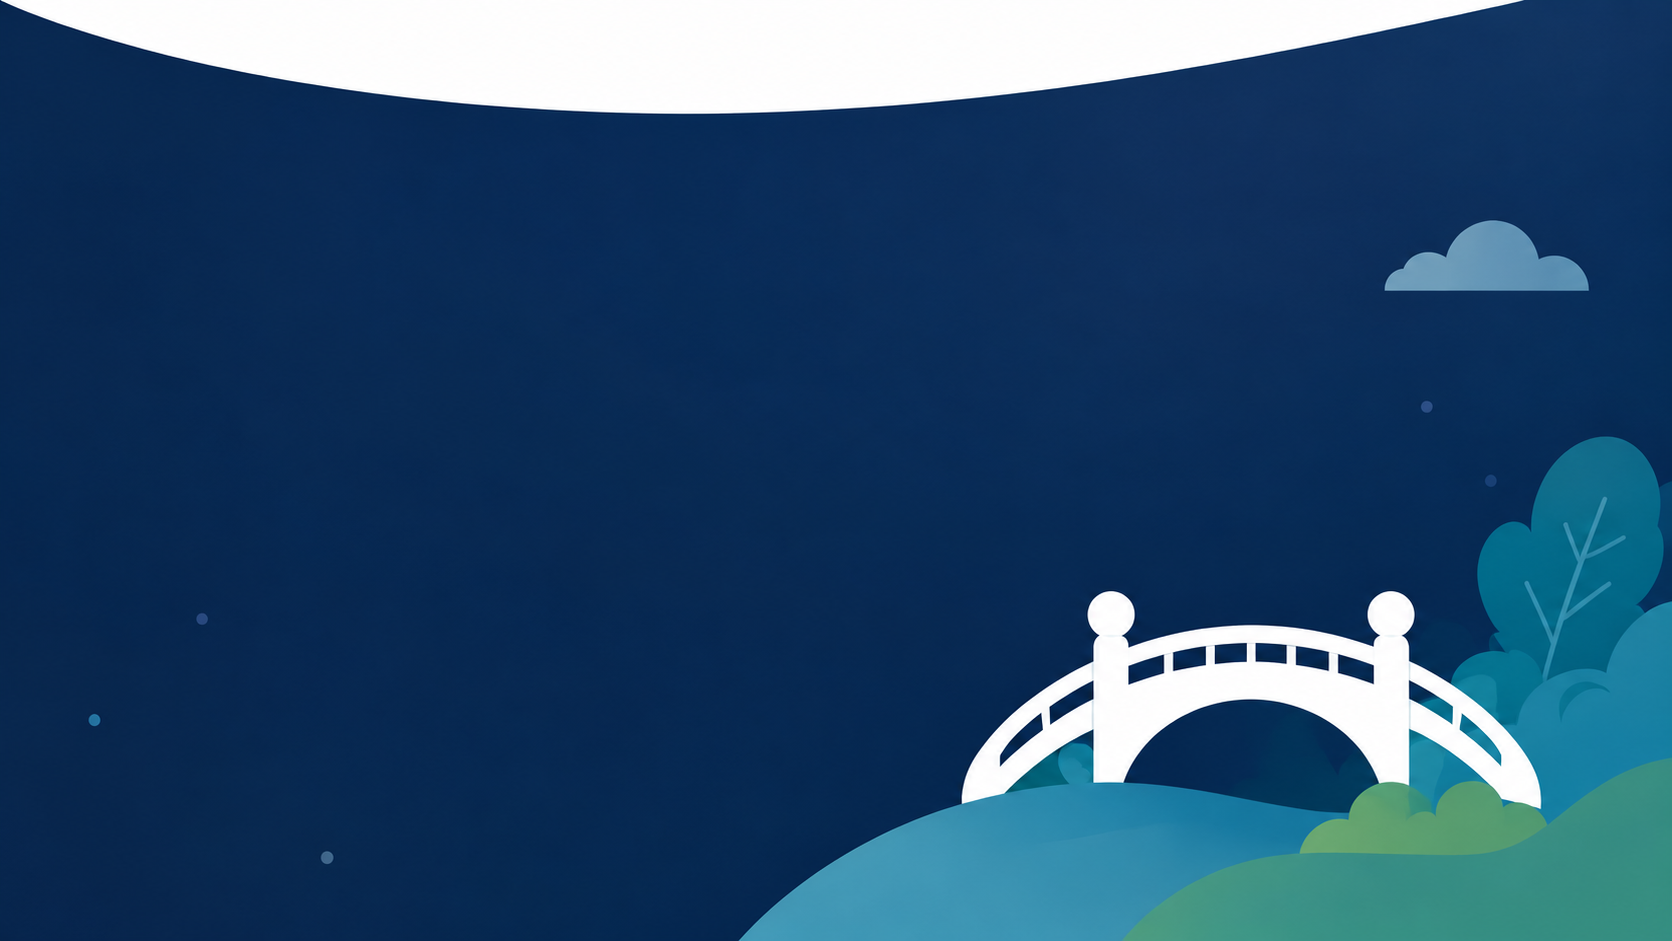
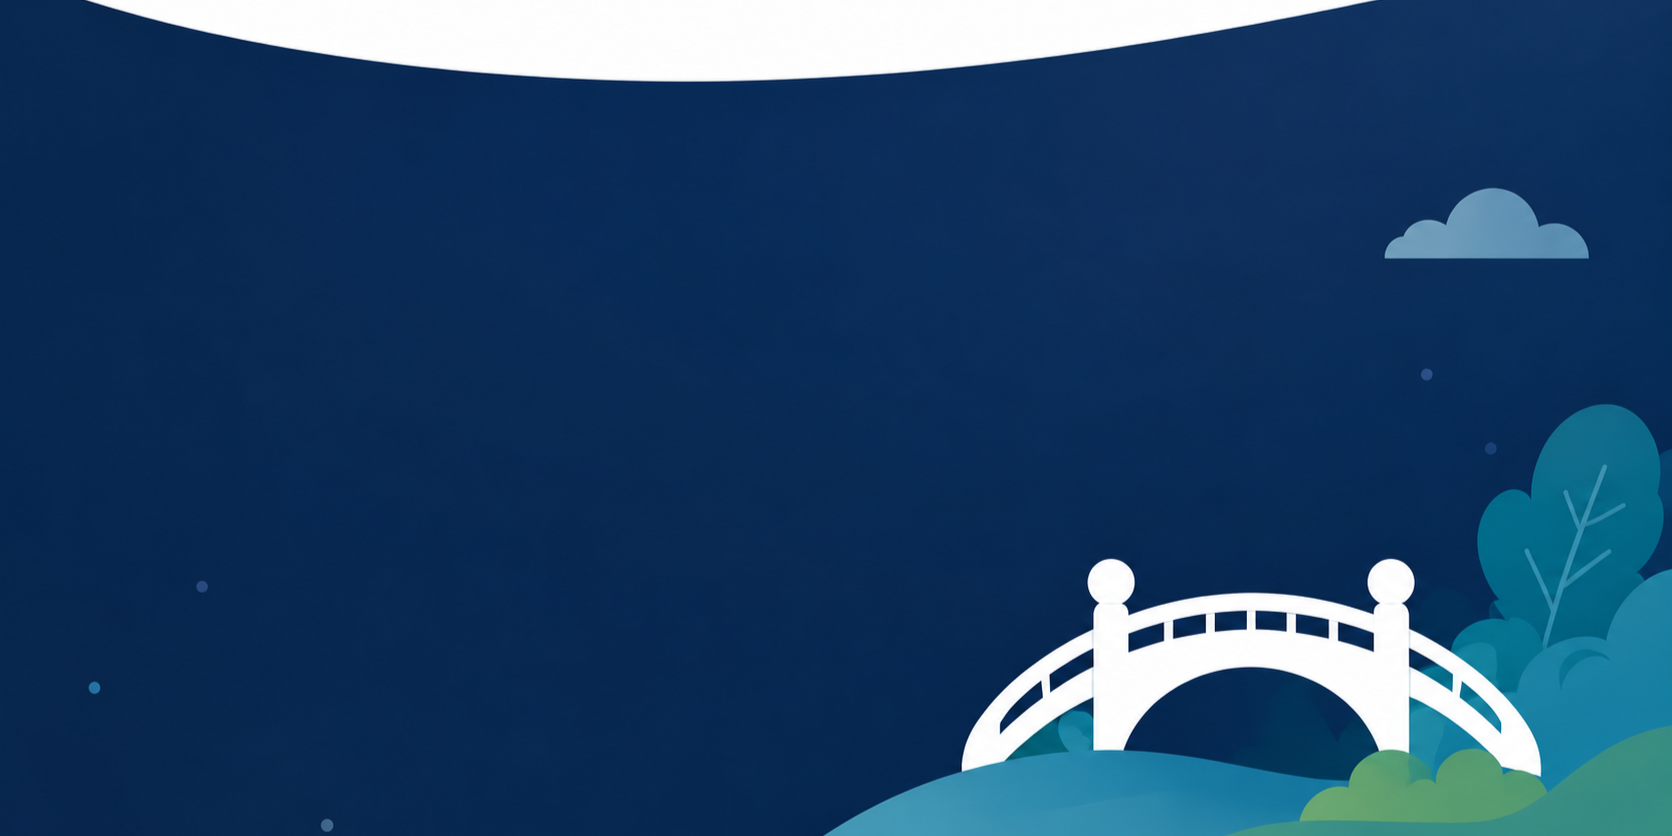
Fix hero image not being sized/cropped on web — replace ImageBackground
Root cause of "can't see the bridge": ImageBackground's underlying
<img> wasn't being constrained by CSS at all on the web target — it
rendered at its full natural resolution (1672x836px) inside a ~212px
container with overflow:hidden, so only the very top of the image
(the white swoosh) was visible and the bridge near the bottom was
clipped off entirely, regardless of how the source file was cropped.

Replaced ImageBackground with a manual View (overflow:hidden, rounded
bottom corners) containing an absolutely-positioned Image
(resizeMode="cover", 100% width/height) — the standard, more reliable
cross-platform pattern. Verified via direct browser inspection that
the previous <img> had no width/height/object-fit applied, and via a
fresh screenshot that the bridge now renders correctly.

diff --git a/CapstoneMobile/app/tabs/home.tsx b/CapstoneMobile/app/tabs/home.tsx
@@ -2,7 +2,7 @@ import React, { useState, useCallback } from 'react';
 import {
   View,
   Text,
-  ImageBackground,
+  Image,
   StyleSheet,
   ScrollView,
   TouchableOpacity,
@@ -447,11 +447,12 @@ export default function HomeScreen() {
         contentContainerStyle={[styles.scrollContent, { paddingBottom: insets.bottom + 100 }]}
         showsVerticalScrollIndicator={false}
       >
-        <ImageBackground
-          source={require('../../assets/images/home-header.png')}
-          style={styles.heroBanner}
-          imageStyle={styles.heroBannerImage}
-        >
+        <View style={styles.heroBanner}>
+          <Image
+            source={require('../../assets/images/home-header.png')}
+            style={styles.heroBannerImage}
+            resizeMode="cover"
+          />
           <View style={styles.heroInner}>
             <Text style={styles.heroKicker}>{greeting},</Text>
             <View style={styles.heroTitleRow}>
@@ -462,7 +463,7 @@ export default function HomeScreen() {
             </View>
             <Text style={styles.heroSub}>Here&apos;s an overview of your loved one&apos;s care today.</Text>
           </View>
-        </ImageBackground>
+        </View>
 
         <View style={styles.summaryCard}>
           <View style={styles.summaryHeadRow}>
@@ -1128,8 +1129,13 @@ const styles = StyleSheet.create({
     minHeight: isCompactScreen ? 190 : 212,
   },
   heroBannerImage: {
-    borderBottomLeftRadius: 26,
-    borderBottomRightRadius: 26,
+    position: 'absolute',
+    top: 0,
+    left: 0,
+    right: 0,
+    bottom: 0,
+    width: '100%',
+    height: '100%',
   },
   heroInner: { gap: 4 },
   heroKicker: {